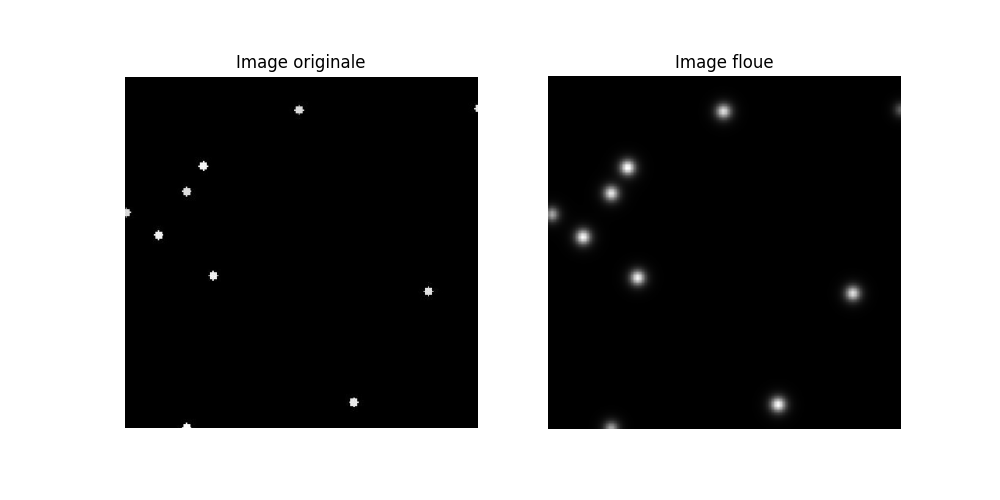
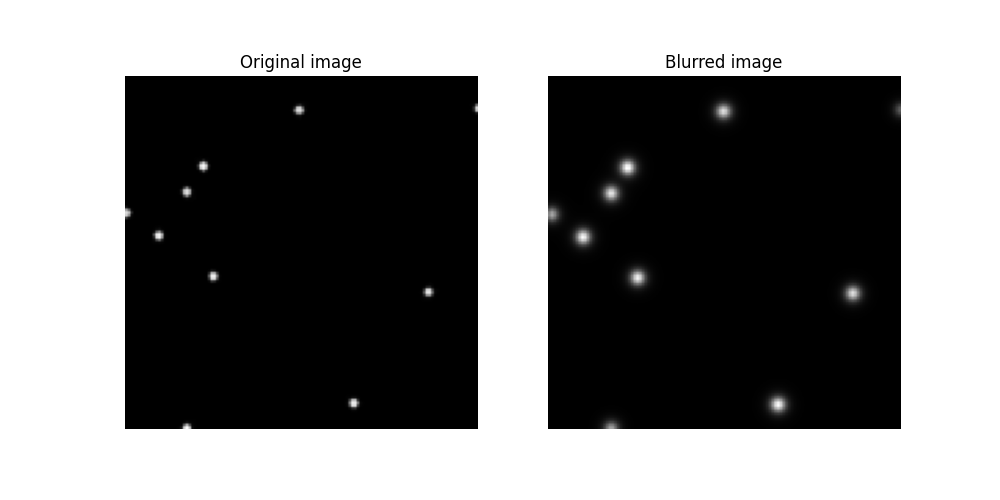
upgrated wiener working better

diff --git a/deconvolution_method/constant_psf.py b/deconvolution_method/constant_psf.py
@@ -1,12 +1,14 @@
 import numpy as np
 import matplotlib.pyplot as plt
 from scipy.signal import convolve2d
-from pre_processing import resize_image
+from pre_processing import resize_image, renormalize_to_minus_one_to_one
 from psf_creation import moffat_psf
-from plot import plot_psf, plot_original_blurred_images, plot_blurred_deblurred_images
+from plot import plot_psf, plot_original_blurred_images, plot_blurred_deblurred_images, plot_original_deblurred_images
+from skimage.restoration import unsupervised_wiener
+
 import sys
 
-def create_blurred_image(image, psf, target_size = (128, 128), mode = "same"):
+def create_blurred_image(image, psf, mode = "same"):
     """Create a blurred image by convolving the image with the PSF.
     
     Inputs :
@@ -18,10 +20,7 @@ def create_blurred_image(image, psf, target_size = (128, 128), mode = "same"):
     Returns :
     blurred_image : 2D array, the blurred image.
     """
-    resized_image = resize_image(image, target_size)
-    if resized_image.ndim == 3:
-        resized_image = np.mean(resized_image, axis=2)
-    blurred_image = convolve2d(resized_image, psf, mode=mode)
+    blurred_image = convolve2d(image, psf, mode=mode)
     return blurred_image
 
 def wiener_deconvolution(blurred_image, psf):
@@ -38,9 +37,23 @@ def wiener_deconvolution(blurred_image, psf):
     G = np.fft.fft2(blurred_image)
     
     # Wiener filter : adjustable regularizer (small_value to limit artifacts)
-    small_value = 1e-1
+    small_value = 1e-2
     deconvolved_image = np.real(np.fft.ifft2(G * np.conj(H) / (H * np.conj(H) + small_value)))
     return deconvolved_image
+
+def upgreated_wiener(blurred_image, psf):
+    """Deconvolution with a Wiener-Hunt approach, where the hyperparameters are automatically estimated.
+    
+    Inputs : 
+    blurred_image : 2D array, the blurred image.
+    psf : 2D array, the point spread function.
+    
+    Returns :
+    deconvolved_image : 2D array, the deconvolved image.
+    chains : dict, the keys noise and prior contain the chain list of noise and prior precision respectively."""
+    renormalized_blurred_image = renormalize_to_minus_one_to_one(blurred_image)
+    deconvolved_image, chains = unsupervised_wiener(renormalized_blurred_image, psf)
+    return deconvolved_image, chains
 
 if __name__ == "__main__":
     """Main function to deblur an image with Wiener deconvolution.
@@ -48,9 +61,13 @@ if __name__ == "__main__":
     filename = sys.argv[1]
     image = plt.imread(filename)
     target_size = (128,128)
+    resized_image = resize_image(image, target_size)
+    if resized_image.ndim == 3:
+        resized_image = np.mean(resized_image, axis=2)
     psf = moffat_psf(target_size)
-    blurred_image = create_blurred_image(image, psf, target_size)
-    deblurred_image = wiener_deconvolution(blurred_image, psf)
+    blurred_image = create_blurred_image(resized_image, psf)
+    deblurred_image= upgreated_wiener(blurred_image, psf)[0]
     plot_psf(psf, filename.split('/')[-1].split('.')[0])
-    plot_original_blurred_images(image, blurred_image, filename.split('/')[-1].split('.')[0])
+    plot_original_blurred_images(resized_image, blurred_image, filename.split('/')[-1].split('.')[0])
     plot_blurred_deblurred_images(blurred_image, deblurred_image, filename.split('/')[-1].split('.')[0])
+    plot_original_deblurred_images(resized_image, deblurred_image, filename.split('/')[-1].split('.')[0])

diff --git a/deconvolution_method/plot.py b/deconvolution_method/plot.py
@@ -17,12 +17,12 @@ def plot_original_blurred_images(original_image, blurred_image, name):
     """Plot the original and blurred images"""
     plt.figure(figsize=(10, 5))
     plt.subplot(1, 2, 1)
-    plt.title("Image originale")
+    plt.title("Original image")
     plt.imshow(original_image, cmap='gray')
     plt.axis('off')
 
     plt.subplot(1, 2, 2)
-    plt.title("Image floue")
+    plt.title("Blurred image")
     plt.imshow(blurred_image, cmap='gray')
     plt.axis('off')
     plt.savefig(f'./images/blurred/{name}.png')
@@ -31,12 +31,26 @@ def plot_blurred_deblurred_images(blurred_image, deblurred_image, name):
     """Plot the blurred and deblurred images"""
     plt.figure(figsize=(10, 5))
     plt.subplot(1, 2, 1)
-    plt.title("Image floue")
+    plt.title("Blurred image")
     plt.imshow(blurred_image, cmap='gray')
     plt.axis('off')
 
     plt.subplot(1, 2, 2)
-    plt.title("Image défloutée")
+    plt.title("Deblurred image")
     plt.imshow( deblurred_image, cmap='gray')
     plt.axis('off')
     plt.savefig(f'./images/deblurred/{name}.png')
+
+def plot_original_deblurred_images(original_image, deblurred_image, name):
+    """Plot the blurred and deblurred images"""
+    plt.figure(figsize=(10, 5))
+    plt.subplot(1, 2, 1)
+    plt.title("Original image")
+    plt.imshow(original_image, cmap='gray')
+    plt.axis('off')
+
+    plt.subplot(1, 2, 2)
+    plt.title("Deblurred image")
+    plt.imshow( deblurred_image, cmap='gray')
+    plt.axis('off')
+    plt.savefig(f'./images/deblurred/{name}_2.png')
